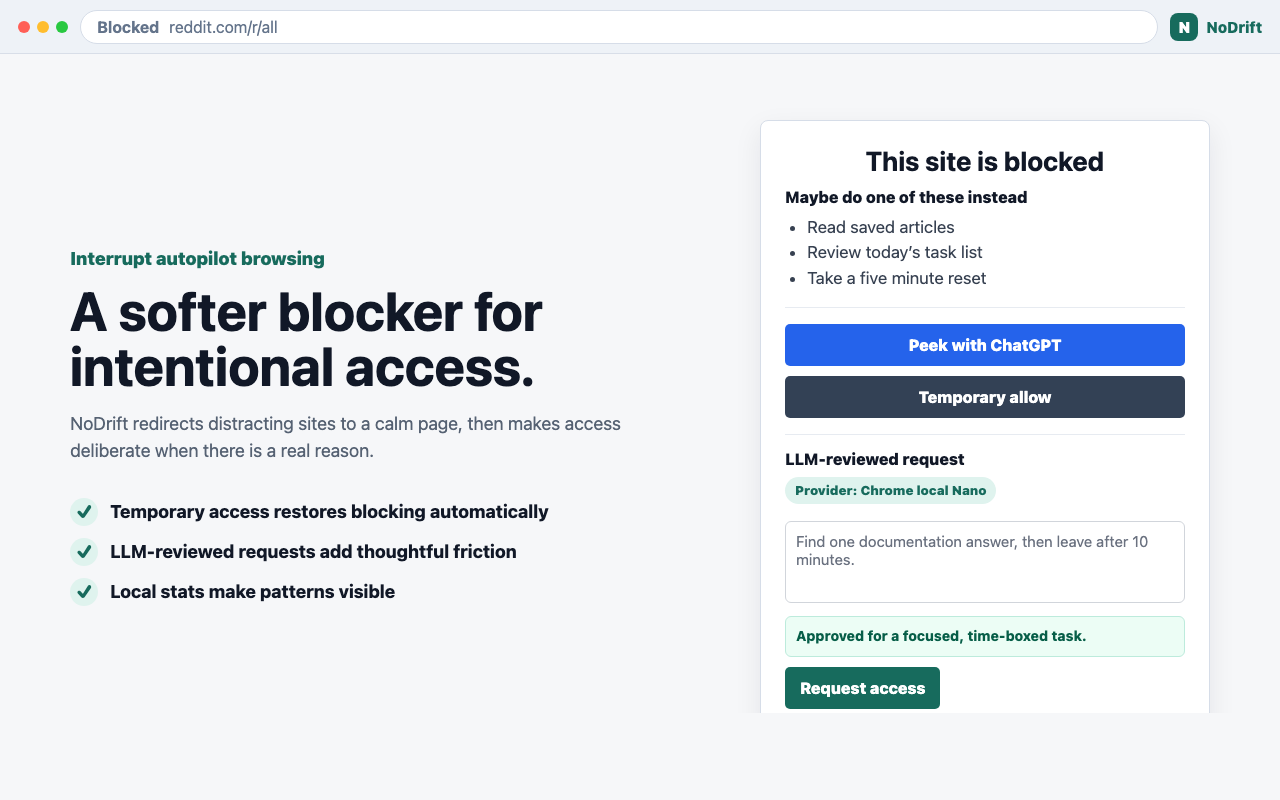
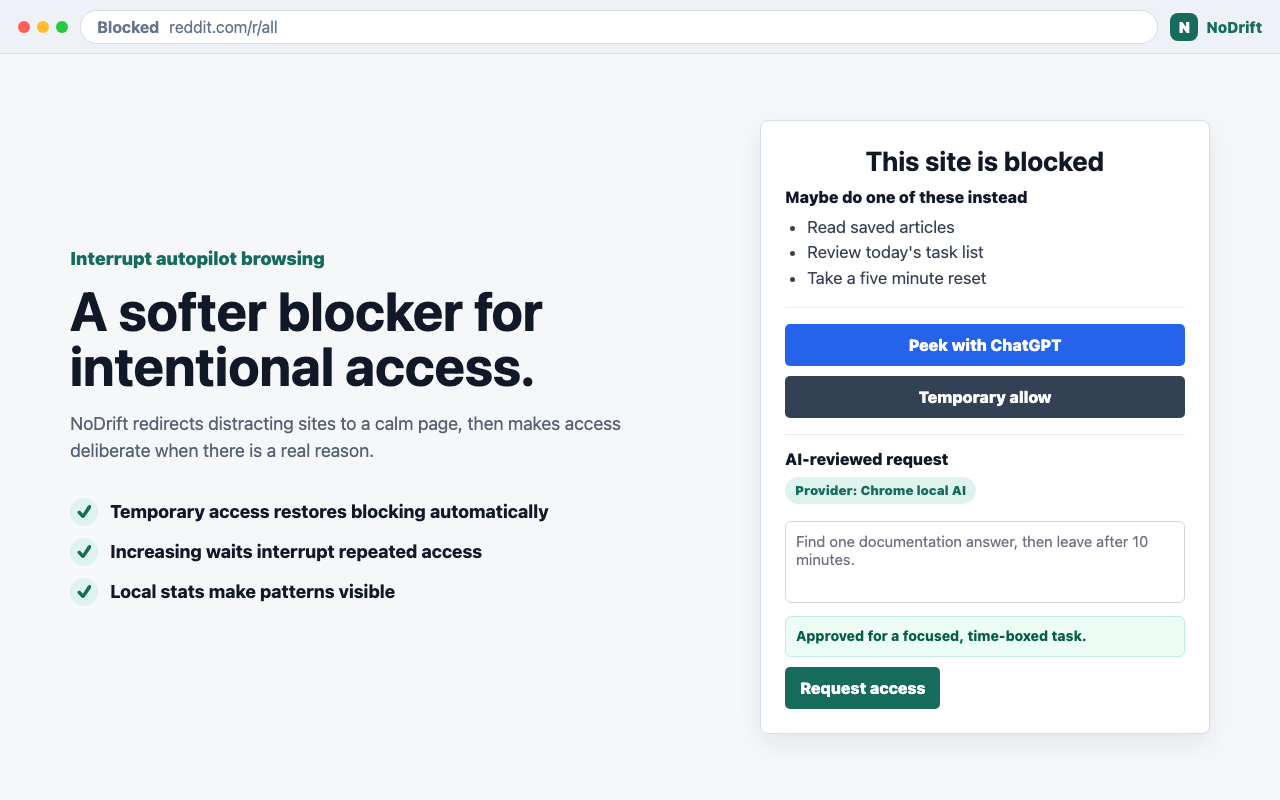
Prepare the 1.0.4 release

diff --git a/AMO_SUBMISSION.md b/AMO_SUBMISSION.md
@@ -2,7 +2,7 @@
 
 NoDrift ships Chrome as the primary published target today. The Firefox target
 is packaged from the same TypeScript source with a generated Firefox-specific
-Manifest V3 shape.
+Manifest V3 shape and is prepared for its first AMO submission.
 
 ## Build Artifacts
 
@@ -12,16 +12,16 @@ Prepare the Firefox runtime ZIP and the matching source-review ZIP:
 npm run release:amo:firefox
 ```
 
-For version `1.0.3`, this creates:
+For version `1.0.4`, this creates:
 
 ```text
-release/nodrift-firefox-1.0.3.zip
-release/nodrift-firefox-source-1.0.3.zip
+release/nodrift-firefox-1.0.4.zip
+release/nodrift-firefox-source-1.0.4.zip
 ```
 
-Upload `release/nodrift-firefox-1.0.3.zip` as the extension package. If AMO asks
+Upload `release/nodrift-firefox-1.0.4.zip` as the extension package. If AMO asks
 for source code after validation, upload
-`release/nodrift-firefox-source-1.0.3.zip`.
+`release/nodrift-firefox-source-1.0.4.zip`.
 
 ## Reviewer Build Instructions
 
@@ -37,12 +37,81 @@ npm run release:zip:firefox
 The reproduced runtime package is written to:
 
 ```text
-release/nodrift-firefox-1.0.3.zip
+release/nodrift-firefox-1.0.4.zip
 ```
 
 NoDrift uses `tsc` to compile TypeScript into `dist/`. It does not use a
 bundler, minifier, obfuscator, web-based build step, or remote code-generation
 step for the submitted extension package.
+
+## AMO Listing Copy
+
+**Name**
+
+NoDrift: Website Blocker
+
+**Summary**
+
+A soft website blocker that interrupts autopilot with deliberate temporary
+access, configurable friction, and private local stats.
+
+**Description**
+
+NoDrift redirects sites you choose to block to a calm decision page. When
+access is legitimate, you can use a time-boxed temporary allow or select a more
+deliberate access gate.
+
+Features include:
+
+- configurable blocked domains and temporary access duration
+- an optional global daily wait that increases after repeated successful allows
+- access effects such as grayscale and Slow Fade
+- local-only stats for blocks, allows, waiting, active access time, and recent
+  decisions
+- optional AI-reviewed, study quiz, gate-builder, and Peek with ChatGPT flows
+
+The core blocker, settings, stats, and non-AI gates work locally. NoDrift has no
+ads, analytics, maintainer-operated telemetry, or account system. External
+provider data is sent only when you configure or invoke an optional feature,
+and Firefox asks for the relevant optional data-collection permission first.
+
+**Category**
+
+Productivity
+
+**Homepage**
+
+https://github.com/bradlangel/nodrift
+
+**Support**
+
+https://github.com/bradlangel/nodrift/issues
+
+**License**
+
+MIT
+
+**Privacy policy**
+
+https://github.com/bradlangel/nodrift/blob/main/PRIVACY.md
+
+## Reviewer Notes
+
+NoDrift's core website blocking, temporary access, access effects, and local
+stats do not require external data collection. Broad host access is necessary
+because users can choose any domain to block and because temporary access and
+effects must operate on those configured sites.
+
+Optional OpenAI and ChatGPT features are user-configured or user-invoked.
+Before one of those flows collects or sends covered data, Firefox requests the
+matching optional data-collection permissions. Denial fails closed for that
+provider action without disabling the local blocker.
+
+The submitted runtime is generated from the accompanying source ZIP using the
+commands in `AMO_SOURCE_REVIEW.md`. The build uses the Node version in `.nvmrc`,
+`npm ci`, and the checked-in lockfile. TypeScript is compiled with `tsc`; there
+is no bundling, minification, obfuscation, remote code, or generated code
+download. Rebuilding writes the matching runtime ZIP under `release/`.
 
 ## Firefox Manifest Notes
 

diff --git a/PRIVACY.md b/PRIVACY.md
@@ -1,6 +1,6 @@
 # NoDrift Privacy Policy
 
-Last updated: May 5, 2026
+Last updated: July 28, 2026
 
 NoDrift is a soft, open-source website blocker for intentional browsing. It is
 designed to keep your browsing controls and usage data on your device unless you
@@ -12,12 +12,13 @@ NoDrift may store or process the following data to provide its blocking,
 temporary access, stats, and review features:
 
 - Blocked site domains and block-page alternatives.
-- Settings such as gate selection, temporary allow duration, access effects,
-  and AI provider/model configuration.
+- Settings such as gate selection, temporary allow duration, increasing-wait
+  behavior, access effects, and AI provider/model configuration.
 - Browsing and navigation data needed for the blocker loop, such as the blocked
   domain, attempted URL, active tab state, and temporary access state.
-- Local usage stats, including blocked attempts, temporary allows, active
-  temporary access time, and recent access decisions.
+- Local usage stats, including blocked attempts, temporary allows, time spent
+  waiting before temporary access, active temporary access time, and recent
+  access decisions.
 - User-provided request-access text and follow-up answers.
 - Optional page snapshots and prompts generated for the Peek with ChatGPT
   feature.
@@ -45,7 +46,10 @@ Specifically, NoDrift uses data to:
 
 - Redirect configured blocked sites to the block page.
 - Apply temporary allow and re-block decisions.
-- Show local stats and recent decisions.
+- Apply the optional increasing wait using the global number of successful
+  temporary allows recorded for the current day.
+- Show local stats, including time spent waiting before access, and recent
+  decisions.
 - Render configured block-page alternatives and actions.
 - Evaluate request-access prompts through the selected access gate.
 - Support optional provider features that you enable or invoke.
@@ -64,6 +68,12 @@ domain, requested duration, local time/day, selected provider/model settings,
 and compact local stats context. Provider API keys are used only to authenticate
 requests to the provider you selected.
 
+On Firefox, NoDrift asks for the browser's optional data-collection permission
+before an external-provider feature collects or sends covered data. If you
+decline, that provider request does not run and the core blocker continues to
+work locally. Chrome does not provide the same extension permission prompt;
+external-provider features there run only when you configure or invoke them.
+
 If you use Peek with ChatGPT, NoDrift may fetch a small page snapshot, build a
 prompt, open ChatGPT, and attempt to insert that prompt. If insertion is not
 available, NoDrift may copy the prompt to your clipboard as a fallback. You
@@ -80,10 +90,10 @@ optional provider feature that requires that service, as described above.
 ## User Controls
 
 You can edit blocked sites, alternatives, gate choices, temporary allow
-duration, provider settings, and other configuration from the NoDrift settings
-page. You can clear local extension data from NoDrift's local data controls
-where available, from Chrome's extension management UI, or by uninstalling the
-extension.
+duration, increasing-wait behavior, access effects, provider settings, and
+other configuration from the NoDrift settings page. You can reset today's
+local stats from the Local Stats page. You can also clear extension data from
+your browser's extension management UI or by uninstalling the extension.
 
 ## Chrome Web Store Limited Use
 

diff --git a/ROADMAP.md b/ROADMAP.md
@@ -40,8 +40,9 @@ interrupt autopilot, but not a hard lock when access is legitimate.
 - [x] Add simple navigation between the block page, settings, and local stats.
 - [x] Redesign the local stats page so it feels as intentional as the options
       page.
-- [x] Keep v1 Chrome-only and document that clearly.
-- [ ] Add Firefox support after the Chrome v1 loop feels solid.
+- [x] Ship v1 on Chrome before expanding browser support.
+- [x] Add Firefox build support and prepare runtime and source-review artifacts
+      for AMO submission.
 
 ## Gate Backlog
 
@@ -115,7 +116,7 @@ then let each feature prove the next boundary.
    navigation.
 8. [x] Bring the stats dashboard up to the options page's visual and information
    architecture standard.
-9. [ ] Add Firefox support after the core Chrome flow has settled.
+9. [x] Add Firefox support after the core Chrome flow has settled.
 
 ## V1 Surface Polish
 
@@ -328,8 +329,8 @@ the same space with clearer configuration and behavior.
 
 ## Browser Support (Post-V1)
 
-Initial Firefox build support now exists. Keep AMO-readiness gated on manual
-browser QA.
+Firefox build, packaging, permission-consent, and automated validation support
+now exists. Publication remains gated on final manual browser QA and AMO review.
 
 - [x] Identify Chrome-specific APIs in the background worker.
 - [x] Add a browser API compatibility wrapper where needed.

diff --git a/README.md b/README.md
@@ -2,15 +2,16 @@
 
 [Install NoDrift from the Chrome Web Store](https://chromewebstore.google.com/detail/hnehakhgloffpelfgleecfknkpkomhhl)
 
-Chrome is the published target today. Firefox can be built as a local extension
-artifact and should be manually verified before AMO submission.
+Chrome is the published target today. Firefox release and source-review
+artifacts are ready for final manual verification and AMO submission.
 
 This is a soft website blocker for interrupting autopilot. It redirects
 configured distracting domains to a block page, offers a small set of deliberate
 access gates, and keeps local stats so patterns are visible without remote
 telemetry.
 
-See [PRIVACY.md](PRIVACY.md) for the full privacy policy.
+See [PRIVACY.md](PRIVACY.md) for the full privacy policy. NoDrift is available
+under the [MIT License](LICENSE).
 
 ## Architecture At A Glance
 
@@ -285,7 +286,7 @@ npm run store:assets
 Render only selected assets by passing their basename:
 
 ```sh
-npm run store:assets -- screenshot-block-page screenshot-settings
+npm run store:assets -- screenshot-block-page screenshot-settings screenshot-local-stats
 ```
 
 Final listing PNGs live in `store-assets/`. Temporary HTML render sources are
